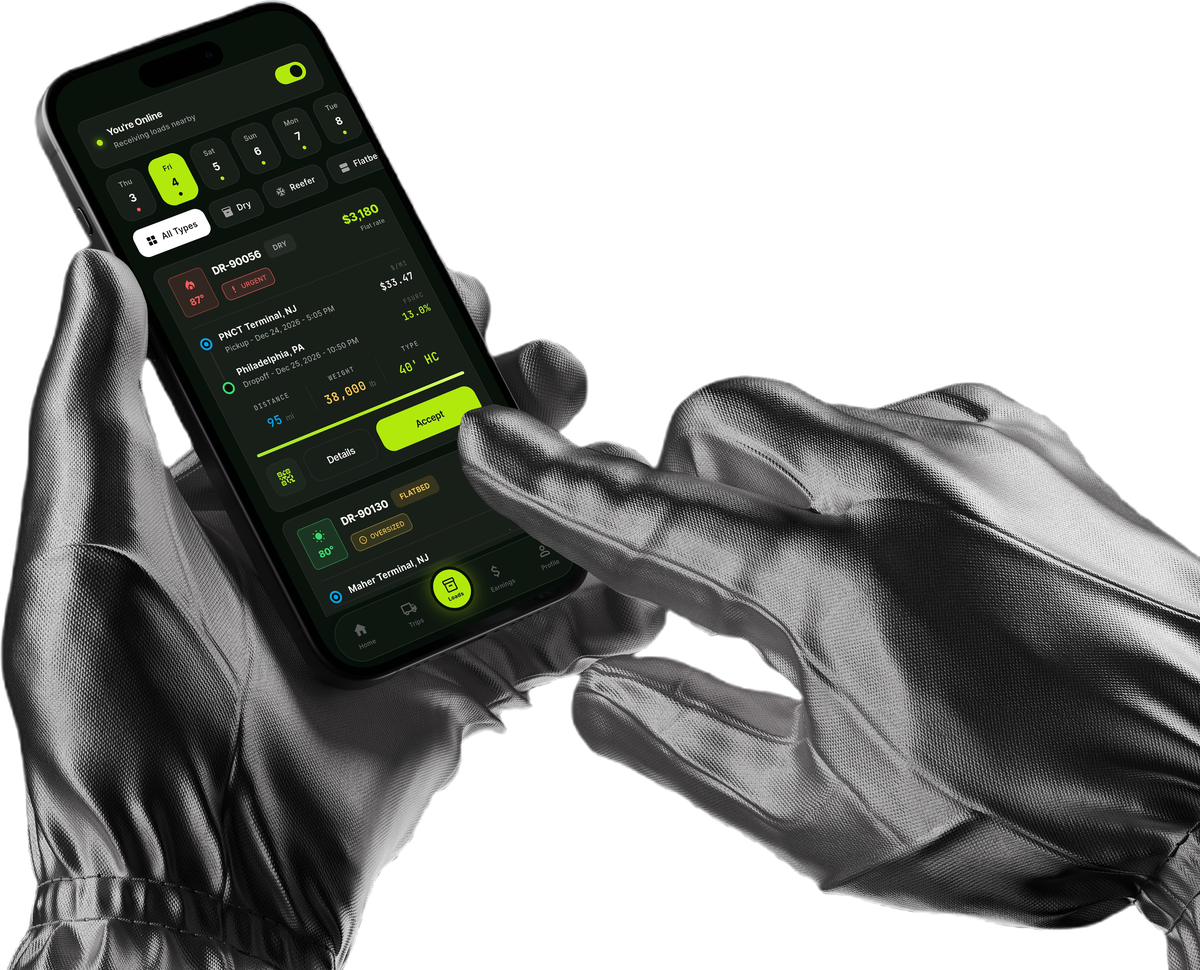
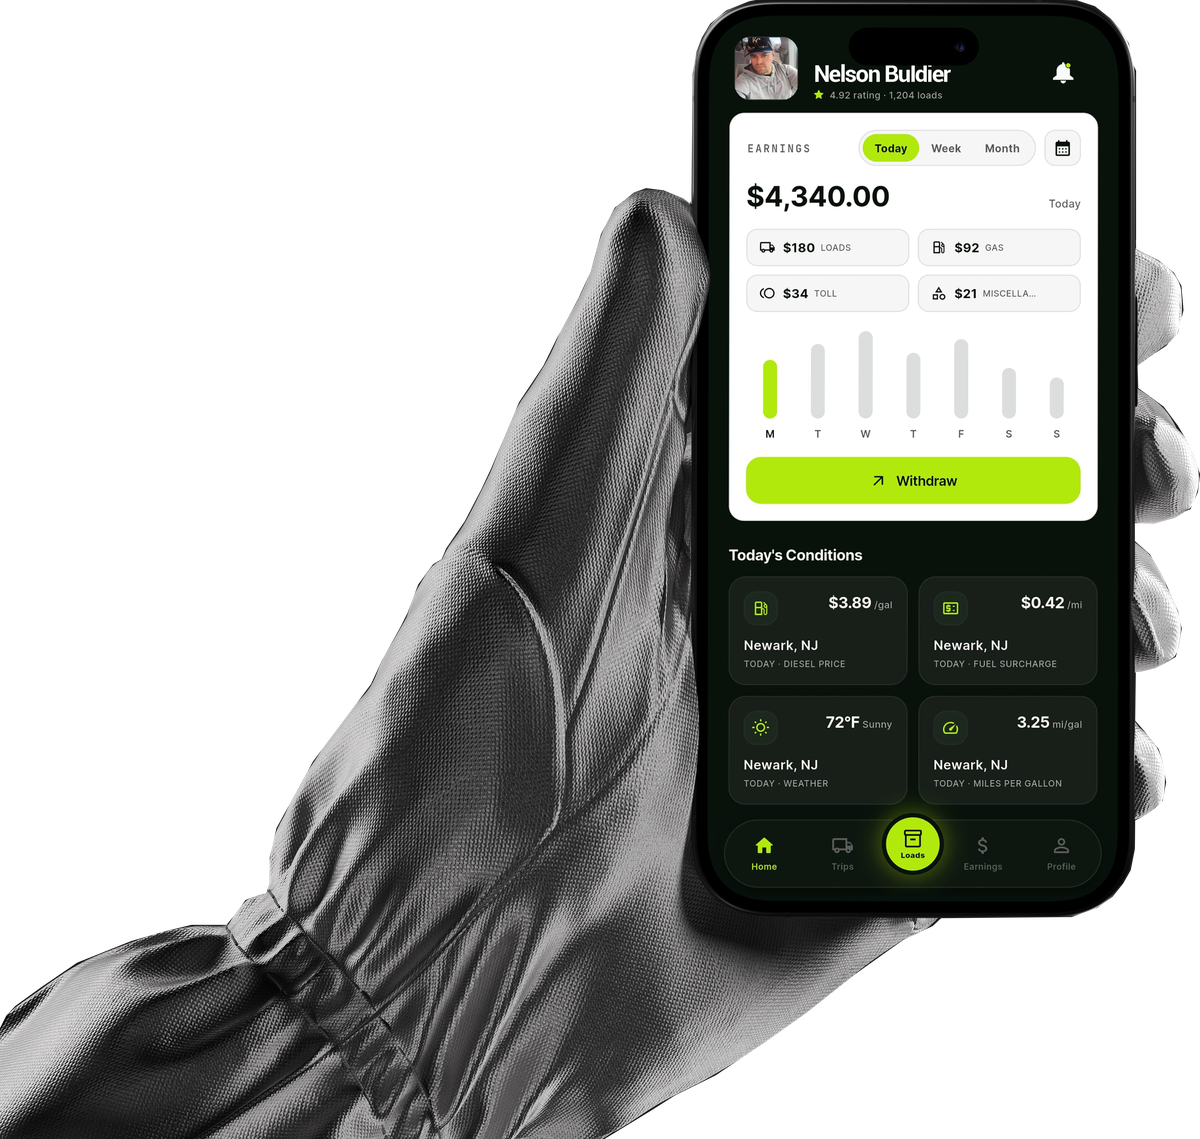
driver-app hero: swap mockup to single-hand home-screen cutout
- hand-hero replaced with the transparent one-hand render (home &
  earnings screen), cropped + resized from the 6000px source
- ?v=2 cache-bust on hero mockup references

diff --git a/nextjs-site/src/app/driver-app/page.tsx b/nextjs-site/src/app/driver-app/page.tsx
@@ -141,8 +141,8 @@ function Hero() {
           <div style={{ position: "absolute", inset: 0, background: `radial-gradient(ellipse 55% 55% at 50% 60%, ${LIME}22 0%, transparent 70%)`, pointerEvents: "none" }} />
           <picture style={{ display: "block", width: "min(620px, 100%)", position: "relative",
             maskImage: "linear-gradient(180deg, black 86%, transparent 99%)", WebkitMaskImage: "linear-gradient(180deg, black 86%, transparent 99%)" }}>
-            <source srcSet={asset("/driver-app/hand-hero.webp")} type="image/webp" />
-            <img src={asset("/driver-app/hand-hero.png")} alt="Driver accepting a load in the DrayGo Driver app" loading="eager"
+            <source srcSet={asset("/driver-app/hand-hero.webp?v=2")} type="image/webp" />
+            <img src={asset("/driver-app/hand-hero.png?v=2")} alt="DrayGo Driver app in hand — home and today's earnings" loading="eager"
               style={{ width: "100%", display: "block",
                 maskImage: "linear-gradient(90deg, black 84%, transparent 98%)", WebkitMaskImage: "linear-gradient(90deg, black 84%, transparent 98%)" }} />
           </picture>
